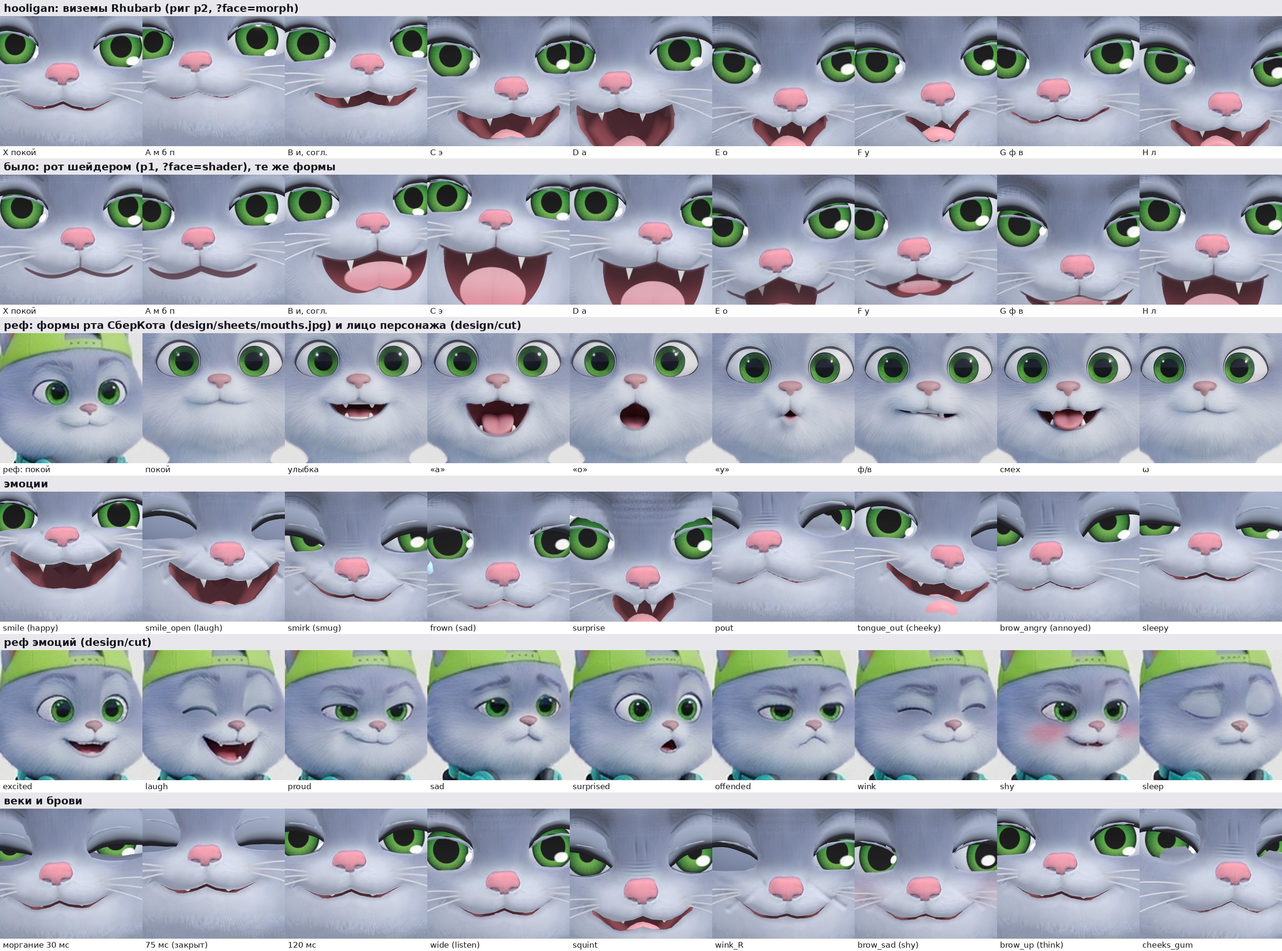
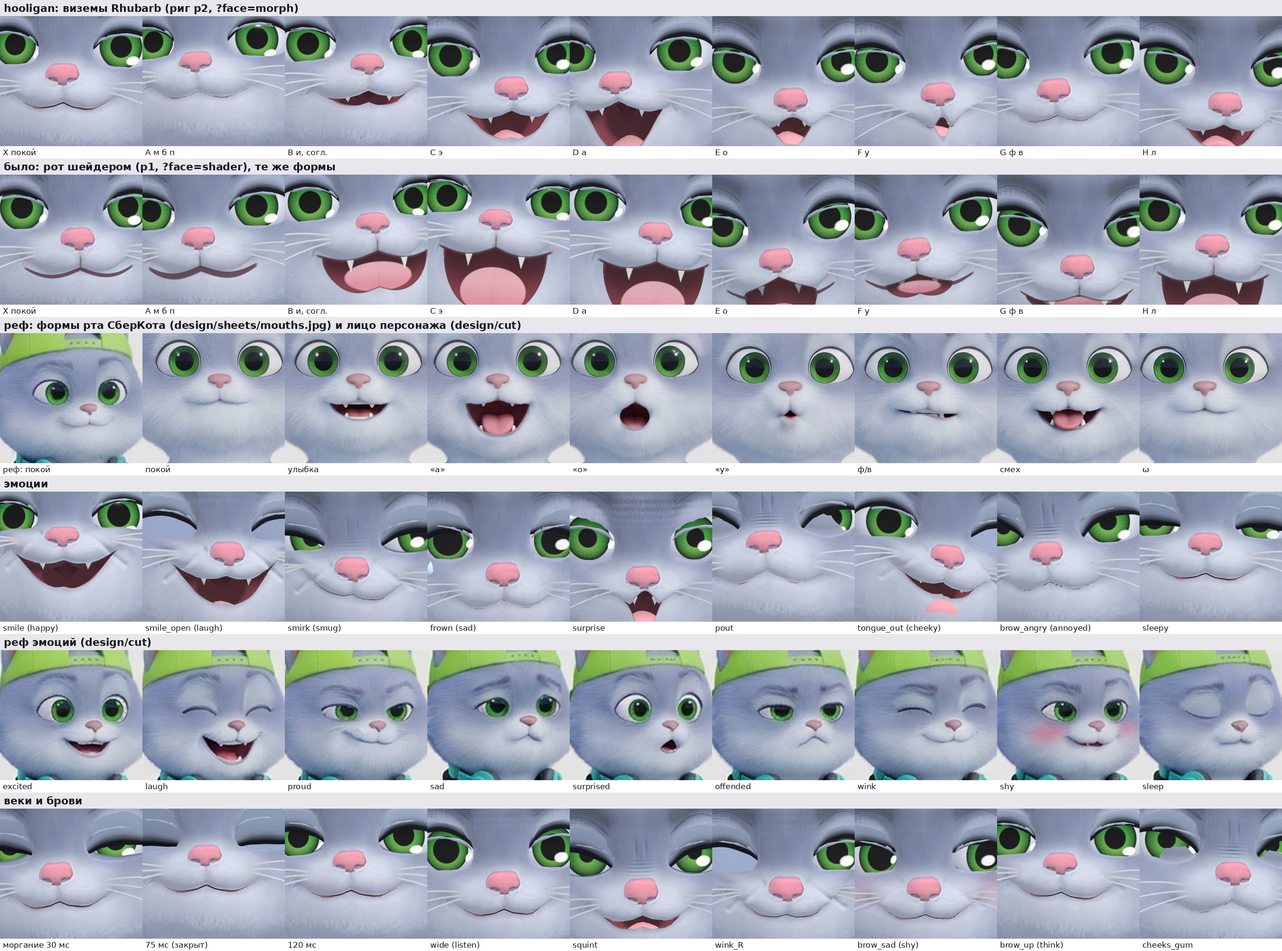
QA лица: листы Хулигана и Добряка пересняты после доводки рта и век (docs/qa/face)
Claude-Session: https://claude.ai/code/session_01TNvxkLCsxbKCemGz8o5LhK

diff --git a/docs/qa/face/README.md b/docs/qa/face/README.md
@@ -34,7 +34,7 @@
 | кот | вершин наружу (покой + 15 ключей) | перехлёст губ | мех на кромке |
 |---|---|---|---|
 | Хулиган | 0 | 0 | 0 |
-| Добряк | 13 (по 1–2 у кромки губ в B/D/E/F/G/smile_open/surprise — на кадрах не видны) | 0 | 0 |
+| Добряк | 5 (единичные у кромки губ — на кадрах не видны) | 0 | 0 |
 | Блёстка | 1 (кончик клычка в surprise) | 0 | 0 |
 
 Отдельно: в покое и во всех ключах сборка проверяет, что разрез делит губы целиком (иначе `face_rig.py` падает) — с одним
@@ -44,8 +44,8 @@
 
 | кот | GLB p1 → p2 | сжатый (meshopt + KTX2, телефон) | текстура морфов в GPU |
 |---|---|---|---|
-| Хулиган | 4.58 → 4.83 МБ (+5.6 %) | 2.07 → 1.89 МБ (−8.4 %) | 8.85 → 6.41 МБ |
-| Добряк | 4.61 → 4.60 МБ (−0.1 %) | 2.11 → 1.93 МБ (−8.7 %) | 8.84 → 3.58 МБ |
+| Хулиган | 4.58 → 4.83 МБ (+5.6 %) | 2.07 → 1.89 МБ (−8.5 %) | 8.85 → 6.41 МБ |
+| Добряк | 4.61 → 4.60 МБ (−0.2 %) | 2.11 → 1.93 МБ (−8.9 %) | 8.84 → 3.58 МБ |
 | Блёстка | 4.73 → 4.93 МБ (+4.2 %) | 2.11 → 2.12 МБ (+0.4 %) | 8.59 → 6.96 МБ |
 
 Морфы — только на морде: тело и его мех больше без ключей (в p1 13 ключей на 17–18 тыс. вершин тела и столько же у меха —
@@ -67,3 +67,16 @@ int16 normalized (KHR_mesh_quantization), малые смещения (< 0.006 W
 6. Производительность: FPS с мехом не ниже p1 (`?face=shader` для сравнения).
 
 Включить в пилоте: `src/config/edition.ts` → `'face.morph': { …, pilot: true }` (и колонка в docs/EDITIONS.md).
+
+## Доводка по рефу mouths.jpg (23.11, вечер; Хулиган и Добряк)
+
+- Форма проёма — поле `profile_fix` (`face_rig.py`, `MOUTH[…]['open'/'arch'/'flat']`): губы расходятся только в пределах
+  полуширины проёма, дальше сомкнуты (и щель покоя закрыта), край — купол без излома (мягкие уголки), нижняя губа — дуга.
+  «о» (E) и surprise — круглый рот ~0.5 ширины линии рта, «у» (F) — трубочка, «а» (C/D) — уже и выше, ω верхней губы
+  в круглых формах разглажена. frown/smirk/smile/pout — с сомкнутыми губами (press), smirk — односторонний и сильнее.
+- Покой: щель губ вдвое тоньше (gap 0.012 W), кромка полости светлее (тонкая линия «ω», а не тёмная щель), складка
+  фильтрума глубже; клычки в покое над кромкой губы (не мелькают в щели).
+- Веки (eyeRig.ts `patchLid`, для p1 и p2): освещение как у кожи морды (нормаль оболочки сведена к оси глаза — без
+  светлой полосы над глазом и серого низа), пряди меха шумом, ярче под мех вокруг, без блика.
+- Блёстка — у отдельного агента (переделка модели); её p2 в этом заходе не пересобиралась. Общие правки `face_rig.py`
+  (profile_fix, gap, клычки, цвет кромки) и `patchLid` она получит при своей пересборке.
